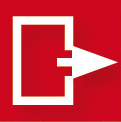
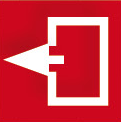
Adjust Menu: - ejs-views moved out of public dir - move editor (closes #48) - adjust exit images (edited image-files) (closes #47, #46)

diff --git a/routes.js b/routes.js
@@ -15,9 +15,9 @@ module.exports = function(app, dataAccess) {
                 {id:'impressum', picId:'logoLg', name:''},
                 {id:'classic', picId:'classic', name:'Klassisches Schach'}
             ],[
-                {id:'', picId:'', name:''},
                 {id:'editor', picId:'editor', name:'Editor'},
-                {id:'exit', picId:'close', name:'Verlassen'}
+                {id:'', picId:'', name:''},
+                {id:'exit', picId:'close_.75opacity', name:'Verlassen'}
             ]
         ];
         var accTypes = [

diff --git a/server.js b/server.js
@@ -32,8 +32,8 @@ app.use('/api/v1', require('./controller/game')(dataAccess, gameHandler));
 
 //set ejs and general view stuff
 app.set('view engine', 'ejs');
-app.set('views',__dirname + '/public/templates');
-app.set('view options', { layout:false, root: __dirname + '/templates' } );
+app.set('views',__dirname + '/view');
+app.set('view options', { layout:false, root: __dirname + '/' } );
 require('./routes')(app, dataAccess);
 
 //Websocket Controller

diff --git a/public/js/communication.js b/public/js/communication.js
@@ -9,7 +9,7 @@ var comHandle = {
             	var conObj = {
                 	type: 'hello',
                 	gameId: gameId,
-                	joinId: joinId,
+                	joinId: joinId
             	};
             	console.log("Client> ", conObj);
             	ws.send(JSON.stringify(conObj));

diff --git a/public/css/playground.css b/public/css/playground.css
@@ -74,12 +74,6 @@ a:active, a:focus{
     height: 100%;
 }
 
-#close {
-    transform: scaleX(-1);
-    filter: FlipH;
-}
-
-
 /* content */
 #sidebar_toggle {
     width: 50px;
